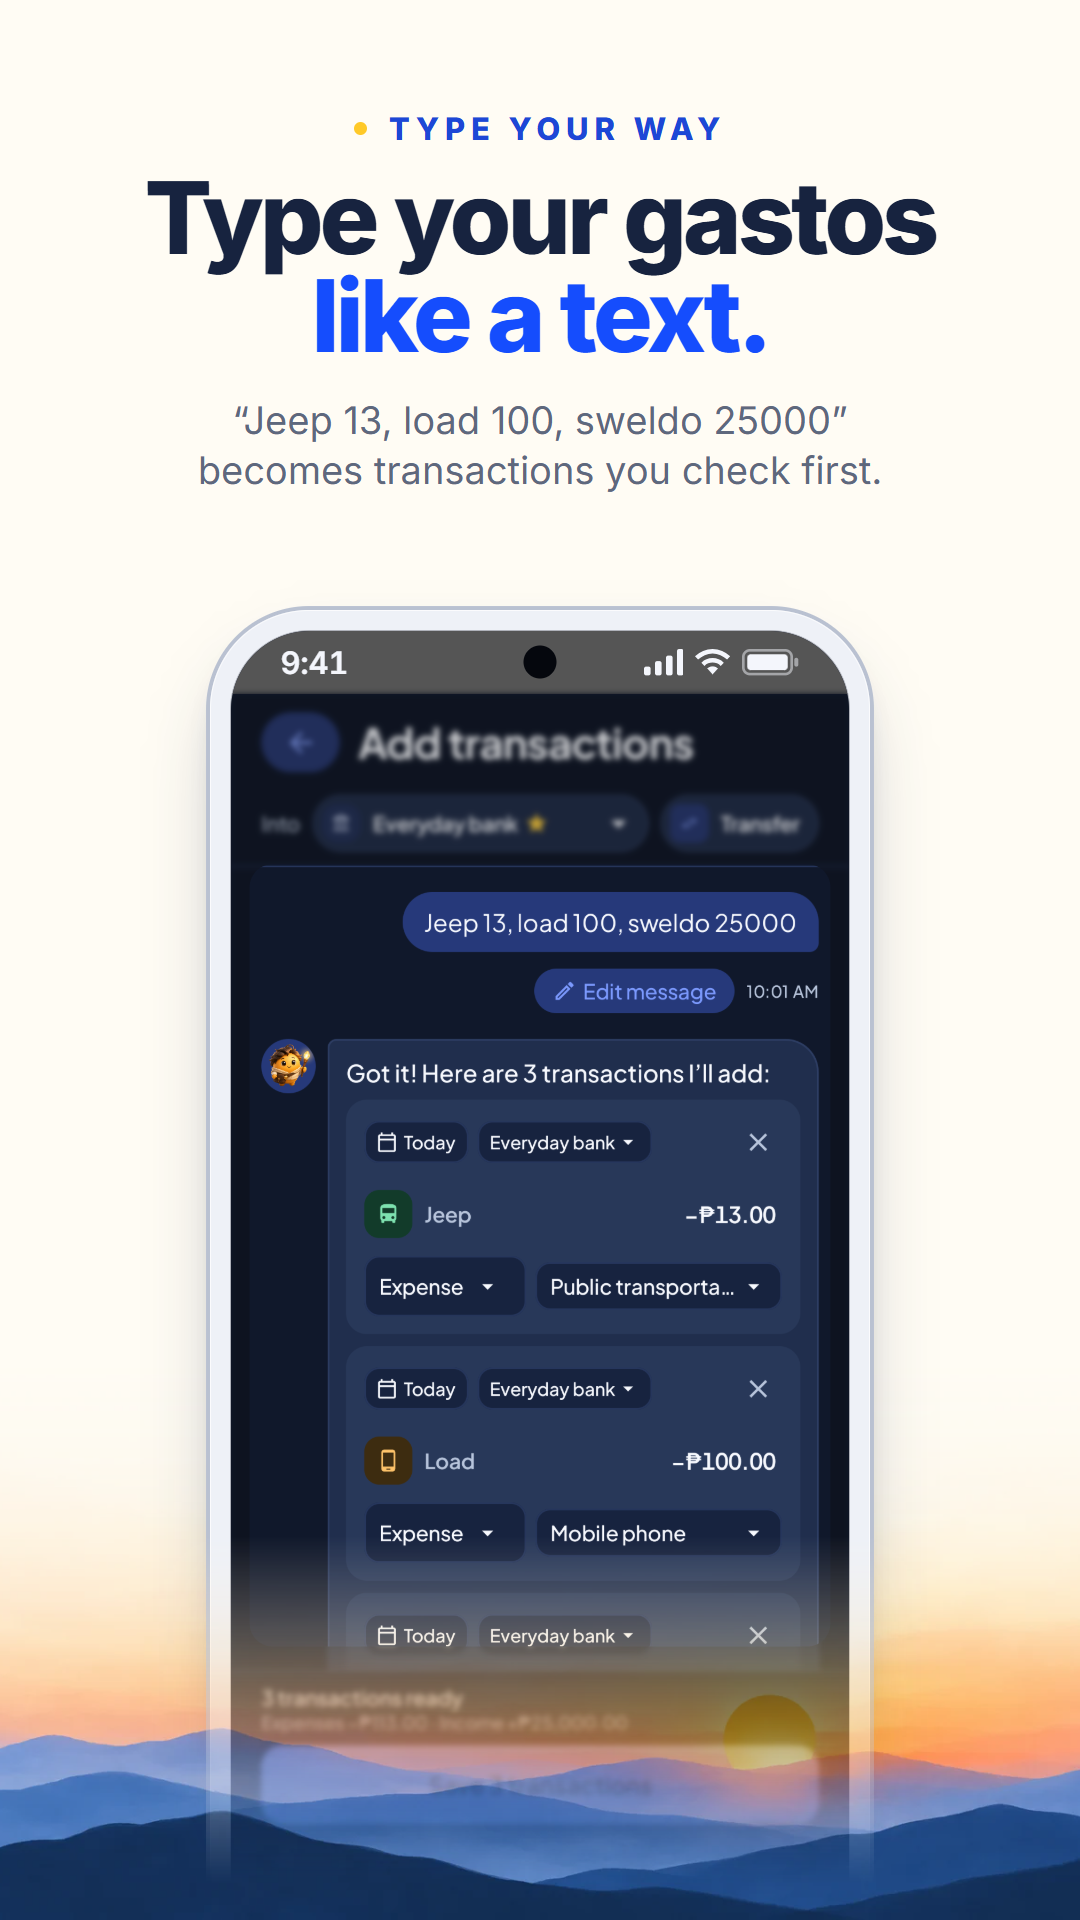
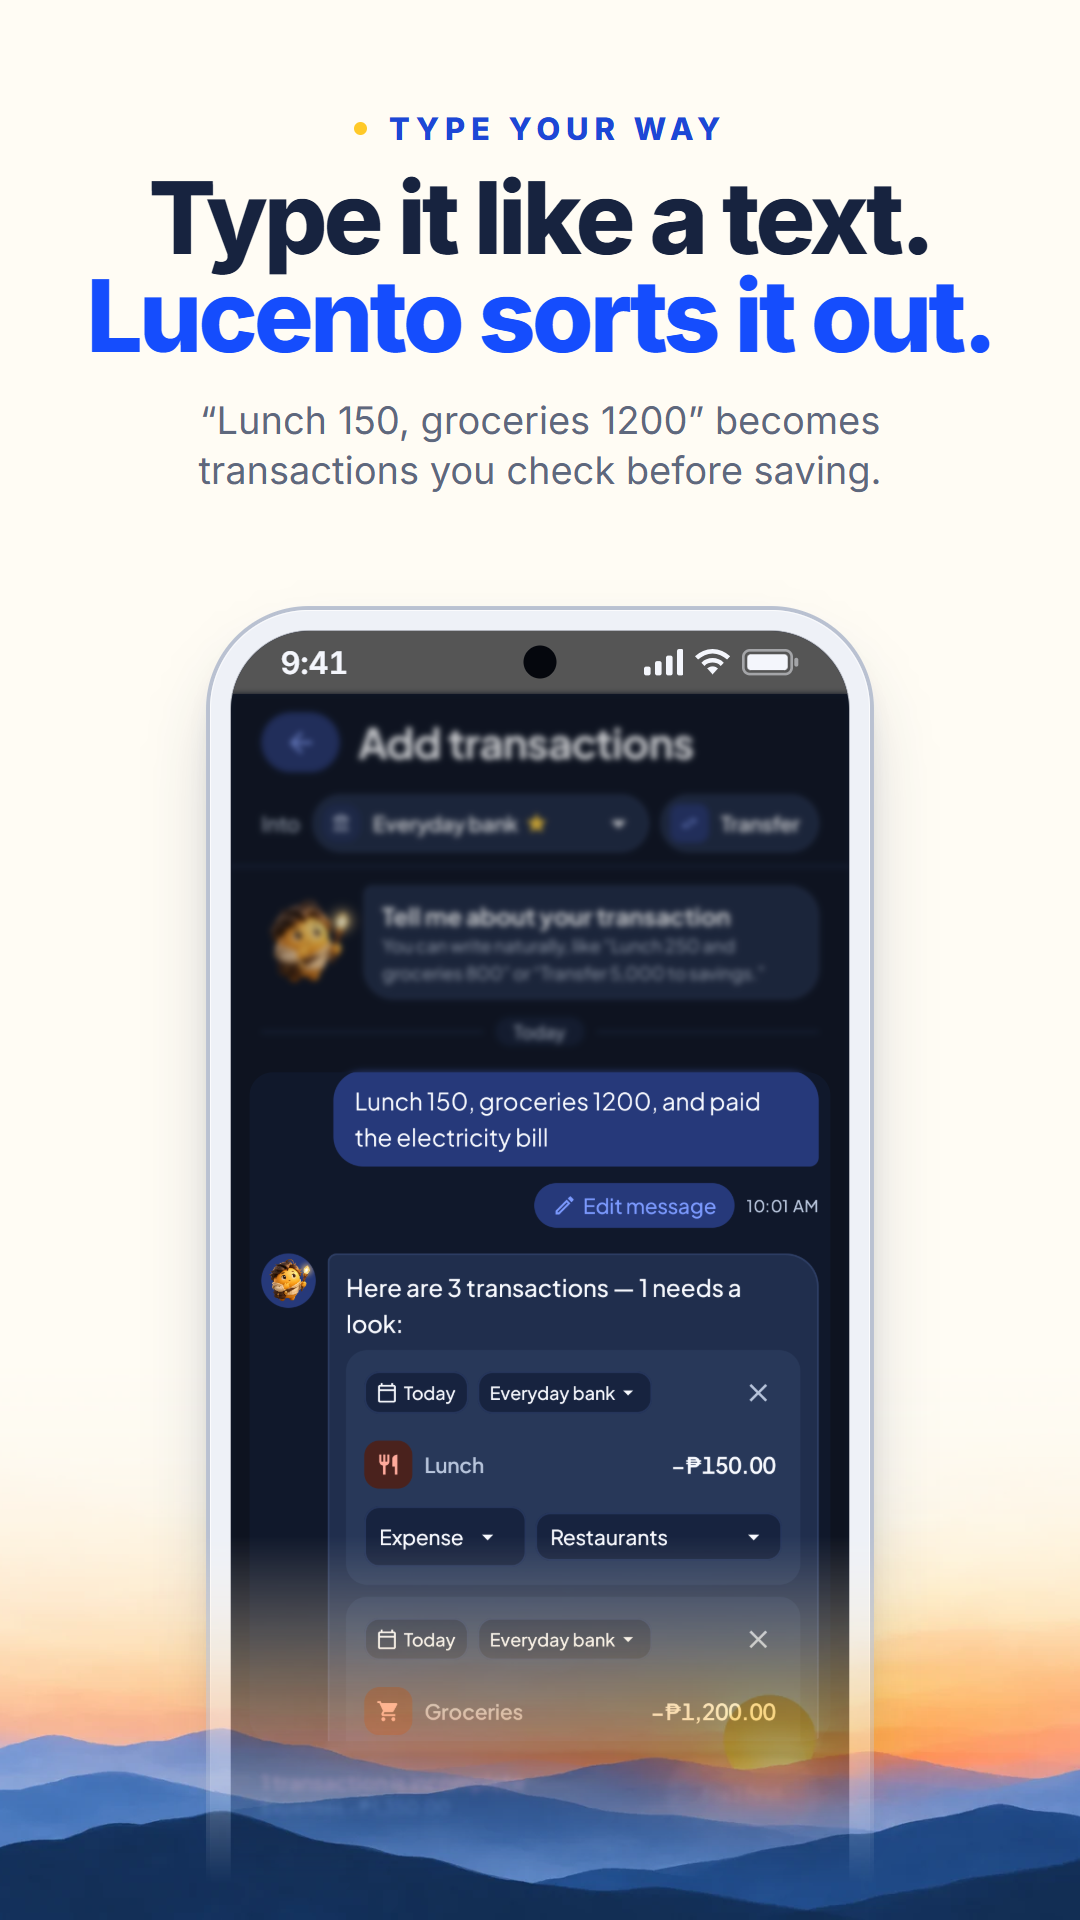
Philippine screenshots in plain English: the main listing's pages in pesos (owner: no Filipino slang in pictures)
The gastos/ipon/utang set is withdrawn: no utang page, no jeep/load/sweldo
composer shot (09c removed from the tour). The Philippine text keeps its
search words, so ListingExampleTest keeps the description's sentence.

diff --git a/app/src/test/java/com/lucento/app/domain/capture/ListingExampleTest.kt b/app/src/test/java/com/lucento/app/domain/capture/ListingExampleTest.kt
@@ -12,9 +12,9 @@ import org.junit.Test
 import java.time.LocalDate
 
 /**
- * The Google Play listings promise what the composer does with their example sentences (docs/play/PLAY_STORE_SUBMISSION.md
- * §4; the Philippine screenshot set from CRO-4a). These read them on the phone, with the preset categories a new person
- * picks, so a listing never shows something the app doesn't do.
+ * The Google Play listings' descriptions promise what the composer does with their example sentences
+ * (docs/play/PLAY_STORE_SUBMISSION.md §4). These read them on the phone, with the preset categories a new person picks, so
+ * a listing never promises something the app doesn't do.
  */
 class ListingExampleTest {
     private val today = LocalDate.parse("2026-11-26")
@@ -34,13 +34,6 @@ class ListingExampleTest {
         assertEquals(listOf("13", "100", "2450", "25000"), rows.map { it.amount?.toPlainString() })
         assertEquals(listOf(EXPENSE, EXPENSE, EXPENSE, INCOME), rows.map { it.type })
         assertEquals(listOf(10L, 11L, 12L, 20L), rows.map { it.categoryId })
-    }
-
-    @Test fun thePhilippineScreenshotsSentence() {
-        val rows = BatchEntryParser.parse("jeep 13, load 100, sweldo 25000", context)
-        assertEquals(listOf("13", "100", "25000"), rows.map { it.amount?.toPlainString() })
-        assertEquals(listOf(EXPENSE, EXPENSE, INCOME), rows.map { it.type })
-        assertEquals(listOf(10L, 11L, 20L), rows.map { it.categoryId })
     }
 
     @Test fun theGlobalListingsSentence() {

diff --git a/app/src/androidTest/java/com/lucento/app/ScreenshotTourTest.kt b/app/src/androidTest/java/com/lucento/app/ScreenshotTourTest.kt
@@ -431,23 +431,6 @@ class ScreenshotTourTest {
         click("Discard")
         compose.waitForIdle()
         waitForDescription("Add transaction")
-        // The Philippine listing's own example (docs/growth/LISTING_REVIEW_2026-11-26.md L3), in the peso marketing run
-        // only: read on the phone, three complete rows (ListingExampleTest checks the same sentence on the JVM).
-        if (demoCurrency == "PHP" && demoHistory) {
-            compose.onNodeWithContentDescription("Add transaction").performClick()
-            waitForText("Tell me about your transaction")
-            compose.onNode(hasSetTextAction()).performTextInput("Jeep 13, load 100, sweldo 25000")
-            compose.onNodeWithContentDescription("Send").performClick()
-            closeKeyboard()
-            waitForText("Save 3 transactions")
-            waitForToastsGone()
-            shot("09c-composer-ph")
-            compose.onNodeWithContentDescription("Back").performClick()
-            waitForText("Discard 3 unsaved transactions?")
-            click("Discard")
-            compose.waitForIdle()
-            waitForDescription("Add transaction")
-        }
 
         // ---------------------------------------------------------------- tabs
         tab("Transactions")

diff --git a/docs/play/PLAY_STORE_SUBMISSION.md b/docs/play/PLAY_STORE_SUBMISSION.md
@@ -114,7 +114,7 @@ saves them to `/data/local/tmp/lucento-shots/delete-0*.png`), plus the public pa
 | Contact email | lucentoapp@gmail.com |
 | Website | `https://www.lucentoapp.com` |
 | Privacy policy | `https://www.lucentoapp.com/privacy` |
-| Graphics | `docs/play/graphics/global/` (main listing, US dollars): one clear view, type it like a text, safe to spend, one net worth, multicurrency (Pro), Milestones (its coloured year is Pro; it replaced Insights on 2026-11-24, owner's choice), goals, Lucento Shared (Pro). `docs/play/graphics/ph/` (Philippines custom listing, pesos), its own set since 2026-11-26 (owner, listing review L3, `docs/growth/LISTING_REVIEW_2026-11-26.md`): eyebrow "For your gastos, ipon and utang", the composer reading "Jeep 13, load 100, sweldo 25000" (`ListingExampleTest`), safe to spend, one net worth, **utang** (a loan's page) in Lucento Shared's place, multicurrency (Pro), Milestones, ipon goals. Feature graphic 1024 × 500, both listings: "The budget tracker you type like a text." (listing review L2). Icon 512 × 512 (the Rising Crest `play-store-512.png` from lucento-website `brand/logo`, unchanged). **Rebuilt 2026-11-26** on an on-pace demo month (rent due on the 10th, so Safe to spend is positive and the month reads On track; before, a double rent showed $0.00, listing review L1) by lucento-studio `lab/play-graphics/render.mjs` (specs.mjs: copy per listing with `forSet`, listing-only pages with `sets`) on dark captures from `tools/screenshots/capture_marketing.sh` (docs/QUALITY.md › Marketing screenshots): global from `tour-usd` + `showcase-usd`, Philippines from `tour-php` + `showcase-php`. Upload folder `Downloads/lucento-play-upload-2026-11-26/{global,ph}` (owner task OT-68) |
+| Graphics | `docs/play/graphics/global/` (main listing, US dollars): one clear view, type it like a text, safe to spend, one net worth, multicurrency (Pro), Milestones (its coloured year is Pro; it replaced Insights on 2026-11-24, owner's choice), goals, Lucento Shared (Pro). `docs/play/graphics/ph/` (Philippines custom listing): the same eight pages in pesos. **Pictures are plain English, with no Filipino slang** (owner, 2026-11-26: a gastos/ipon/utang set was drawn and withdrawn the same day); the Philippine *text* keeps gastos, ipon and utang as search words. Feature graphic 1024 × 500, both listings: "The budget tracker you type like a text." (listing review L2). Icon 512 × 512 (the Rising Crest `play-store-512.png` from lucento-website `brand/logo`, unchanged). **Rebuilt 2026-11-26** on an on-pace demo month (rent due on the 10th, so Safe to spend is positive and the month reads On track; before, a double rent showed $0.00, listing review L1) by lucento-studio `lab/play-graphics/render.mjs` (specs.mjs; `forSet` and `sets` allow a per-listing difference of fact when one is needed) on dark captures from `tools/screenshots/capture_marketing.sh` (docs/QUALITY.md › Marketing screenshots): global from `tour-usd` + `showcase-usd`, Philippines from `tour-php` + `showcase-php`. Upload folder `Downloads/lucento-play-upload-2026-11-26/{global,ph}` (owner task OT-68) |
 
 Copy rules: never promise "no ads" (ads may come to Free); never call local parsing AI; mark Pro features; no prices,
 "best" or "#1" in graphics; name no third-party brands (GCash, Maya, Meralco) in metadata, since Play can reject
